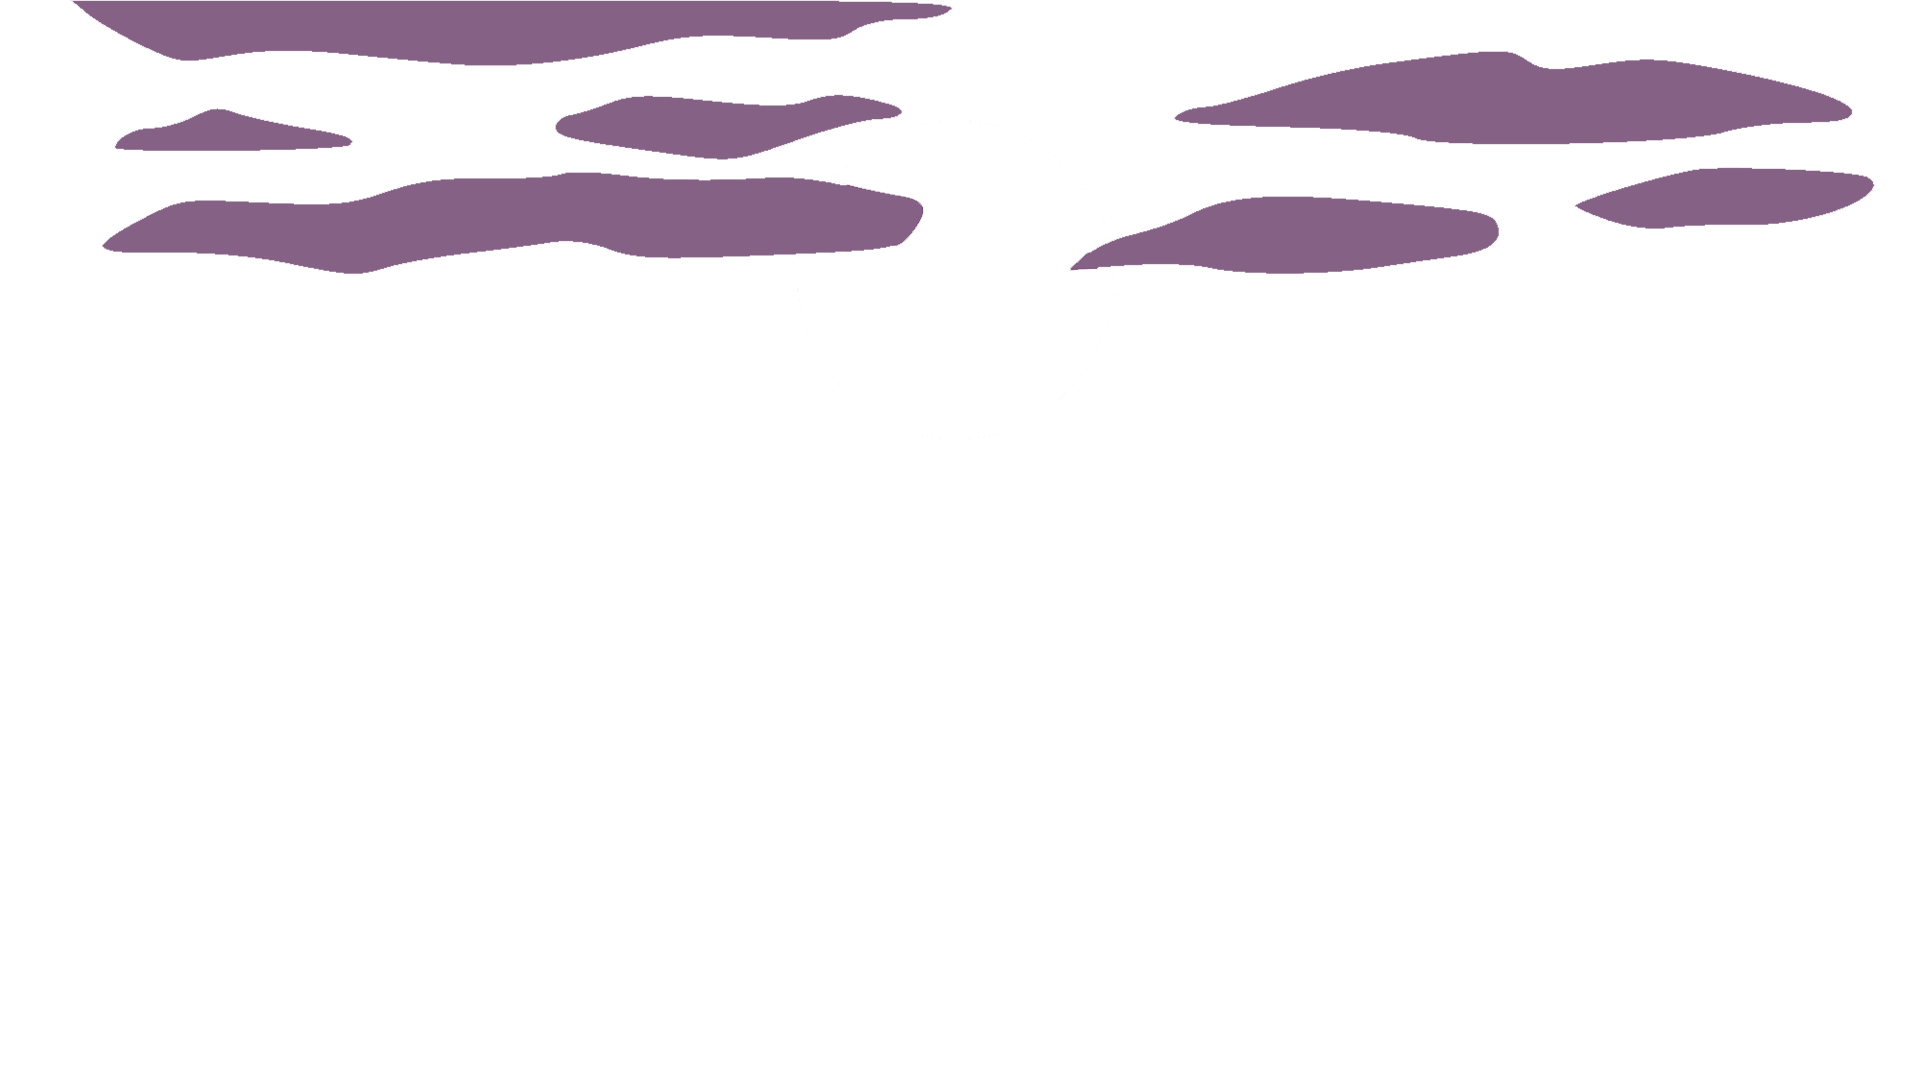
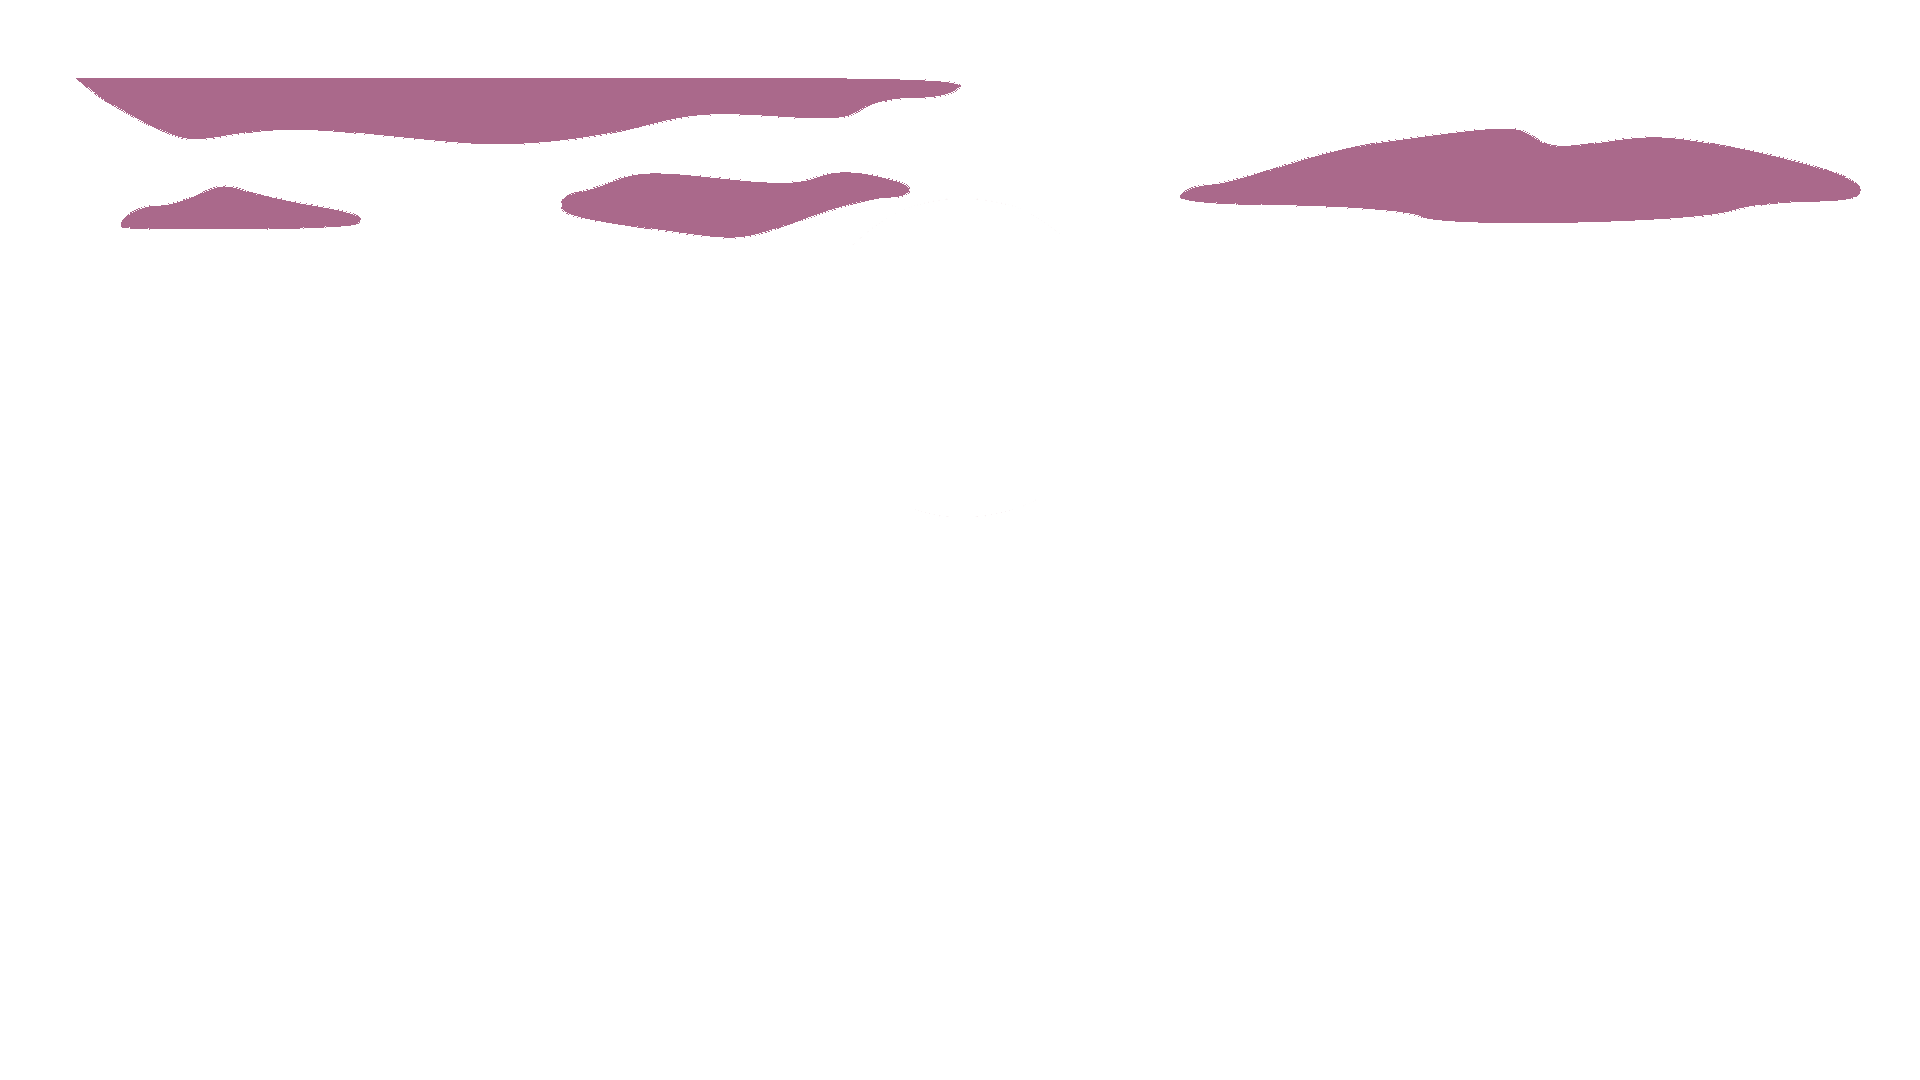
timing

Changed region(s): [[0.0312, 0.0, 0.5, 0.275], [0.5625, 0.0306, 1.0, 0.275]]

diff --git a/src/pages/PageTwo.jsx b/src/pages/PageTwo.jsx
@@ -9,7 +9,7 @@ const PageTwo = () => {
         offset: ["start start", "end start"],
     })
 
-    const backgroundYone = useTransform(scrollYProgress, [0, 1], ["0%", "100%"]);
+    const backgroundYone = useTransform(scrollYProgress, [0, 1], ["0%", "50%"]);
     const backgroundYtwo = useTransform(scrollYProgress, [0, 1], ["0%", "60%"]);
     const backgroundYthree = useTransform(scrollYProgress, [0, 1], ["0%", "20%"]);
     const textY = useTransform(scrollYProgress, [0, 1], ["0%", "0%"]);
@@ -18,7 +18,7 @@ const PageTwo = () => {
     <>
         <div className='parallax-two' ref={ref}>
             <motion.p style={{ y: textY }} className='text-two'>Look... The Other Side of the Mountain</motion.p>
-            <motion.div style={{ y: backgroundYone }} className='layer_two_one'/>
+            <motion.div style={{ y: backgroundYone }} className='layer_two_one' />
             <motion.div style={{ y: backgroundYtwo }} className='layer_two_two' />
             <motion.div style={{ y: backgroundYthree }} className='layer_two_three'/>
         </div>

diff --git a/src/pages/PageTwo.css b/src/pages/PageTwo.css
@@ -33,7 +33,7 @@
     background-position: bottom;
     background-size: cover;
     position: absolute;
-    z-index: 0;
+    z-index: 10;
     inset: 0;
 }
 
